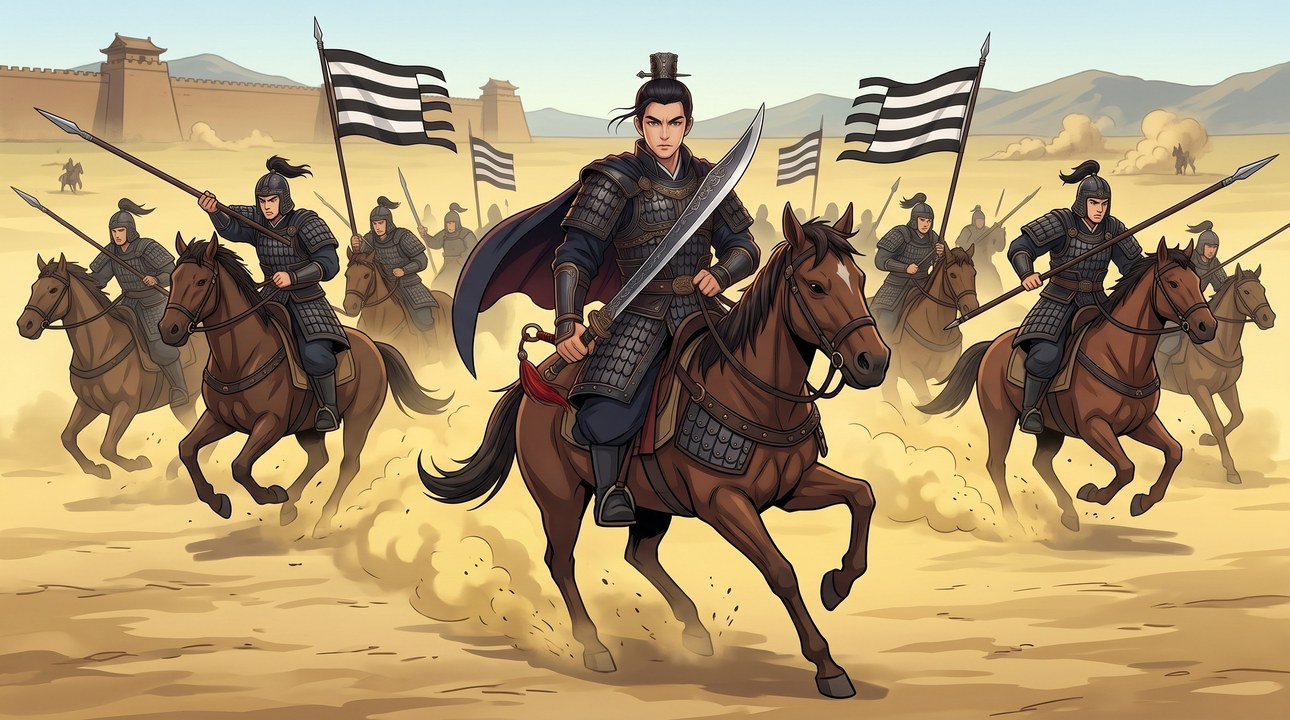
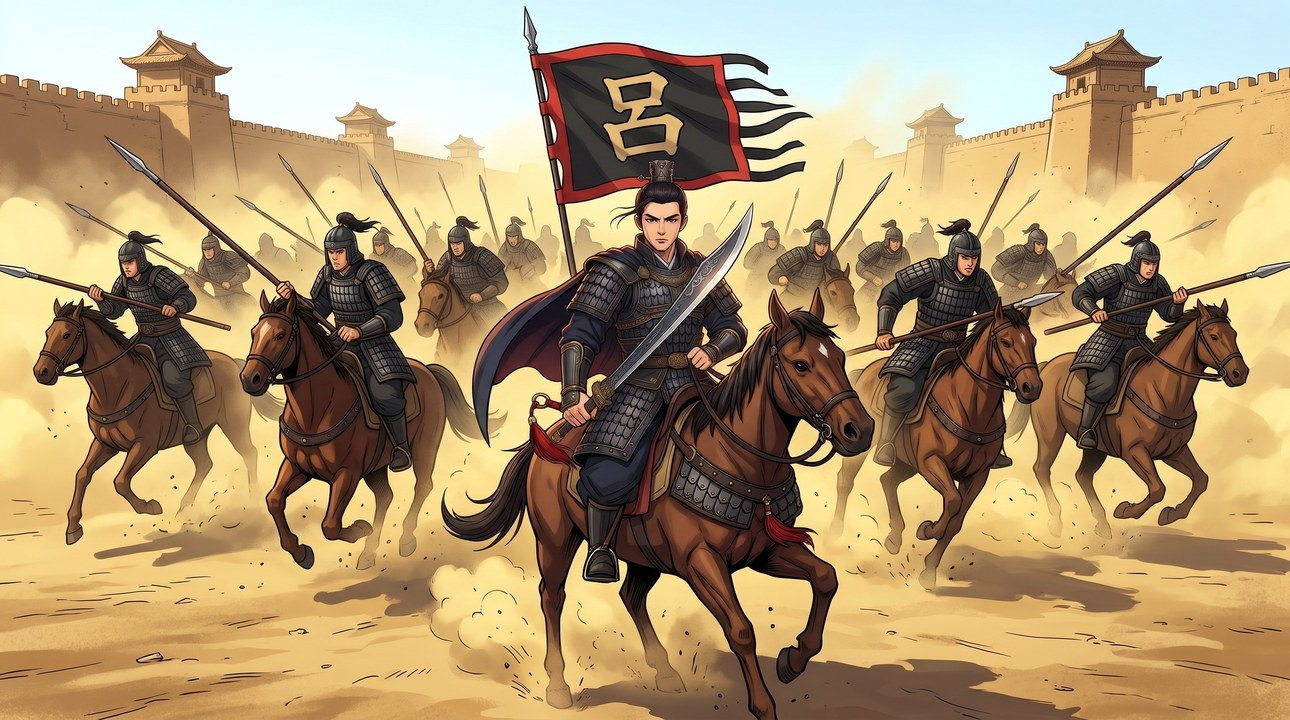
小沛·张辽战斗 CG：吕布部将打「吕」字旗，黑白条纹是义军旗
Claude-Session: https://claude.ai/code/session_016SRjkhEHizmx8aQDUbL3A4

diff --git a/tools/art_prompts.py b/tools/art_prompts.py
@@ -1619,7 +1619,7 @@ BATTLES = {
     "xz_caobao": "下邳城的街口，徐州大将曹豹（四十岁上下，满脸横肉、骄横跋扈，华丽铠甲）叉腰站在家兵中间，家兵们拔刀拦街，身后是他的府门；街边百姓躲在门后",
     "n5_caobao_ren": "阴天午后下邳刺史府外的窄街口，一排曹府家兵（灰铁札甲、圆顶铁盔、脖子上系着暗红布巾）横着长枪把街口堵死，领头的家兵头目抱着胳膊斜眼冷笑，脚踩在翻倒的货摊上；两边是灰瓦木楼的店铺，门板半掩，百姓从门缝里偷看；画面里没有将领；下方 35% 留白为开阔坚硬平整的青石板街面供我方出战卡牌陈列",
     "n5_caobao_jiulou": "傍晚下邳城南一座两层木构酒楼的大堂里，桌椅翻倒、酒坛碎了一地，酒水淌在地板上；曹府家兵（灰铁札甲、圆顶铁盔、脖子上系着暗红布巾）拔刀把大堂团团围住，二楼栏杆边也站满了人，一个家兵正把酒坛高高举起要砸下来；红灯笼和柜台后吓得缩成一团的掌柜；画面里没有将领；下方 35% 留白为开阔坚硬平整的酒楼木地板供我方出战卡牌陈列",
-    "n5_zhangliao": "晴天的小沛城外旷野，尘土飞扬：并州狼骑（黑铁札甲的骑兵，持长枪）来回冲突，扬起一片黄尘；张辽（二十五岁上下的并州名将，英武冷峻，剑眉；黑发高束成髻，戴一顶雕花青铜小冠横插发簪，额前垂一缕碎发，不戴头盔；黑色鱼鳞铁甲配金边兽纹肩甲和金边护腕，深蓝内袍，藏蓝色长披风；手持一把刃上刻云纹的长刀，刀柄尾挂红穗；骑棕色战马）在骑阵最前猛地勒住战马、马前蹄扬起，长刀横在身前，神情沉默为难；骑兵竖着黑白横条旗（旗面只有五条宽横条：黑白黑白黑，三黑加两白，条宽相等，旗面上没有任何文字、符号或图案；不是斑马纹，不要细密条纹）；远处是小沛的土城墙；下方 35% 留白为开阔坚硬平整的夯土旷野供我方出战卡牌陈列",
+    "n5_zhangliao": "晴天的小沛城外旷野，尘土飞扬：并州狼骑（黑铁札甲的骑兵，持长枪）来回冲突，扬起一片黄尘；张辽（二十五岁上下的并州名将，英武冷峻，剑眉；黑发高束成髻，戴一顶雕花青铜小冠横插发簪，额前垂一缕碎发，不戴头盔；黑色鱼鳞铁甲配金边兽纹肩甲和金边护腕，深蓝内袍，藏蓝色长披风；手持一把刃上刻云纹的长刀，刀柄尾挂红穗；骑棕色战马）在骑阵最前猛地勒住战马、马头偏向画面一侧，人稳稳坐在马鞍上（马的身体结构完整正确：马头在前、马鞍在马背中间），长刀横在身前，神情沉默为难；骑兵中间竖着吕布军的黑底红边「吕」字大旗（只有这一个「吕」字，没有其他文字；不要黑白条纹旗）；远处是小沛的土城墙；下方 35% 留白为开阔坚硬平整的夯土旷野供我方出战卡牌陈列",
     "n5_caobao": "黄昏下邳城里的大街，曹豹（四十岁上下的徐州大将，红鼻头、满脸醉红，短络腮胡，咧嘴狞笑；尖顶铁盔，满是污渍的灰铁札甲，脖子上系着暗红布巾，暗红披风；一手提马鞭，一手提长刀）骑在高头大马上冲在最前，一身酒气、身子有点晃，马鞍边挂着一只酒葫芦；身后曹府家兵（灰铁札甲、圆顶铁盔、脖子上系着暗红布巾）举刀跟着往前涌；街两边灰瓦木楼，远处是下邳城楼；下方 35% 留白为开阔坚硬平整的夯土大街供我方出战卡牌陈列",
     "xz_lvbu": "三更天的小沛城门轰然大开，火把照亮夜色：吕布（成年猛将，雉尾金冠，红色铠甲）骑着赤兔马单骑冲出城门，方天画戟横扫，身后城头一片混乱，城外北海军的哨卡火把连成一线",
     "jd_niuzhu_b": "秋天的牛渚江岸，芦苇被马蹄踏倒：一队刘繇的骑卒（扬州军的青色号衣、轻便皮甲，手持马刀长矛，骑着瘦削的江南马）沿着江岸冲来，扬起尘土；远处是刘繇的营垒和「刘」字旗，江面上停着几条战船；下方 35% 留白为开阔坚硬平整的江岸土路供我方出战卡牌陈列",
